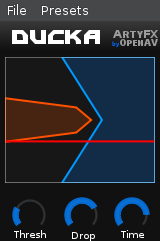
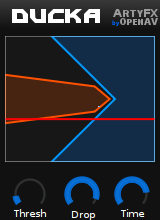
-#13 Updated graphics, 1.3 getting there

diff --git a/manual.md b/manual.md
@@ -28,15 +28,15 @@ jalv.gtk http://www.openavproductions.com/artyfx#roomy
 
 Show me the plugins!
 --------------------
-ArtyFX is a growing suite of plugins: right now, there's 7 plugins available:
-![ArtyFX 1.2](screenshots/artyfx_1.2.png)
+![ArtyFX 1.3](screenshots/artyfx_1.3.png)
+ArtyFX is a growing suite of plugins: right now, the following plugins are
+available:
 ```
 - Bitta    (Bitcrusher)
 - Della    (Delay)
 - Ducka    (Sidechain envelope)
 - Driva    (Heavy distortion)
 - Filta    (Low/Hi- pass filter)
-<!--- Friza    (Sound sustain and modulation) -->
 - Kuiza    (4- band EQ)
 - Masha    (Beat grinder)
 - Panda    (Compressor / Expander)
